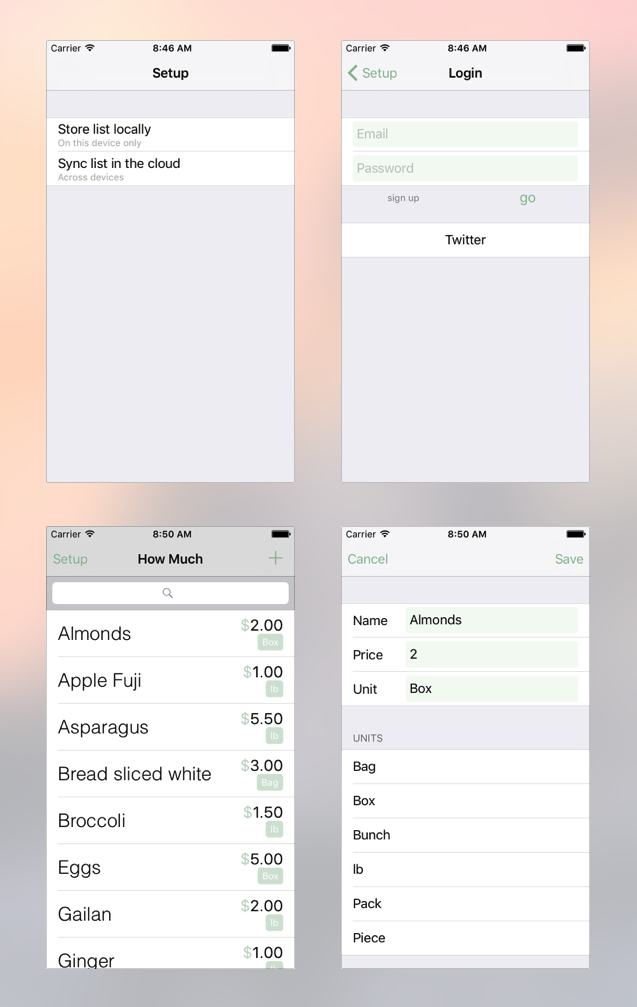
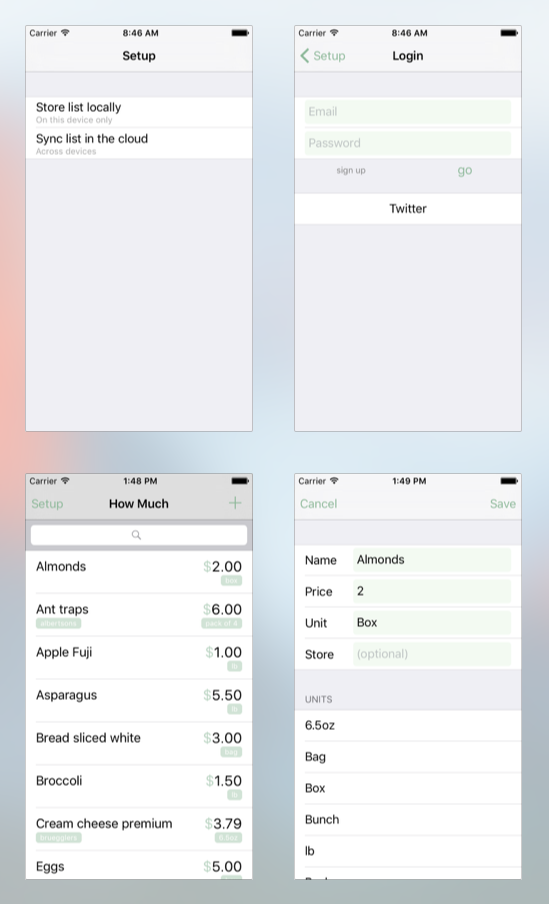
Add store field

diff --git a/Xcode/HowMuch/Views/ItemCell.m b/Xcode/HowMuch/Views/ItemCell.m
@@ -8,6 +8,12 @@
 
 #import "ItemCell.h"
 
+@interface ItemCell ()
+
+@property (nonatomic, strong) UIView *container;
+
+@end
+
 @implementation ItemCell
 
 static BOOL kLogItemCell = NO;
@@ -18,31 +24,35 @@ static BOOL kLogItemCell = NO;
         return nil;
     
     // Init
+    self.container = [[UIView alloc] init];
+    
     self.nameLabel = [[UILabel alloc] init];
+    self.storeLabel = [[UILabel alloc] init];
     self.priceLabel = [[UILabel alloc] init];
     self.unitLabel = [[UILabel alloc] init];
     
     NSArray *controls = @[
                           self.nameLabel,
+                          self.storeLabel,
                           self.priceLabel,
                           self.unitLabel,
                           ];
     
-    // Subviews
-    [controls enumerateObjectsUsingBlock:^(id  _Nonnull obj, NSUInteger idx, BOOL * _Nonnull stop) {
-        [self.contentView addSubview:obj];
-    }];
-    
     // Setup
+    self.nameLabel.accessibilityIdentifier = @"name";
+    self.nameLabel.font = [UIFont systemFontOfSize:18];
+    
     self.unitLabel.accessibilityIdentifier = @"unit";
-    self.unitLabel.font = [UIFont systemFontOfSize:12];
+    self.unitLabel.font = [UIFont systemFontOfSize:10];
     self.unitLabel.textAlignment = NSTextAlignmentCenter;
     self.unitLabel.layer.cornerRadius = 4;
-    self.unitLabel.textColor = [UIColor whiteColor];
     self.unitLabel.clipsToBounds = YES;
     
-    self.nameLabel.accessibilityIdentifier = @"name";
-    self.nameLabel.font = [UIFont fontWithName:@"Helvetica-Light" size:24];
+    self.storeLabel.accessibilityIdentifier = @"store";
+    self.storeLabel.font = self.unitLabel.font;
+    self.storeLabel.textAlignment = self.unitLabel.textAlignment;
+    self.storeLabel.layer.cornerRadius = 4;
+    self.storeLabel.clipsToBounds = YES;
     
     self.priceLabel.accessibilityIdentifier = @"price";
     self.priceLabel.textAlignment = NSTextAlignmentRight;
@@ -54,47 +64,72 @@ static BOOL kLogItemCell = NO;
     }
     
     // Layout
-    [controls enumerateObjectsUsingBlock:^(UIView * obj, NSUInteger idx, BOOL * _Nonnull stop) {
-        obj.translatesAutoresizingMaskIntoConstraints = NO;
+    [self.contentView addSubview:self.container];
+    [controls enumerateObjectsUsingBlock:^(id  _Nonnull obj, NSUInteger idx, BOOL * _Nonnull stop) {
+        [self.container addSubview:obj];
     }];
+    
+    [[controls.mutableCopy arrayByAddingObject:self.container]
+     enumerateObjectsUsingBlock:^(UIView * obj, NSUInteger idx, BOOL * _Nonnull stop) {
+         obj.translatesAutoresizingMaskIntoConstraints = NO;
+     }];
     NSDictionary *views = @{
+                            @"container":self.container,
+                            
                             @"name":self.nameLabel,
+                            @"store":self.storeLabel,
                             @"price":self.priceLabel,
                             @"unit":self.unitLabel,
                             };
     NSDictionary *metrics = @{
-                              @"pad":@(kCellPadVertical),
+                              @"pad":@2,
                               };
     
-    // Horizontal
+    // Container
     {
-        NSArray *constraints = [NSLayoutConstraint constraintsWithVisualFormat:@"|-[name][price(80)]-|" options:kNilOptions metrics:metrics views:views];
+        NSArray *constraints = [NSLayoutConstraint constraintsWithVisualFormat:@"|-[container]-|" options:kNilOptions metrics:metrics views:views];
         [self.contentView addConstraints:constraints];
     }
     {
-        NSArray *constraints = [NSLayoutConstraint constraintsWithVisualFormat:@"[unit]-|" options:kNilOptions metrics:metrics views:views];
+        NSArray *constraints = [NSLayoutConstraint constraintsWithVisualFormat:@"V:|-[container]-|" options:kNilOptions metrics:metrics views:views];
         [self.contentView addConstraints:constraints];
+    }
+    
+    // Horizontal
+    {
+        NSArray *constraints = [NSLayoutConstraint constraintsWithVisualFormat:@"|[name][price(80)]|" options:kNilOptions metrics:metrics views:views];
+        [self.container addConstraints:constraints];
+    }
+    {
+        NSArray *constraints = [NSLayoutConstraint constraintsWithVisualFormat:@"|[store]" options:kNilOptions metrics:metrics views:views];
+        [self.container addConstraints:constraints];
+    }
+    {
+        NSArray *constraints = [NSLayoutConstraint constraintsWithVisualFormat:@"[unit]|" options:kNilOptions metrics:metrics views:views];
+        [self.container addConstraints:constraints];
     }
     
     // Vertical
     {
-        NSArray *constraints = [NSLayoutConstraint constraintsWithVisualFormat:@"V:|[name]|" options:kNilOptions metrics:metrics views:views];
-        [self.contentView addConstraints:constraints];
+        NSArray *constraints = [NSLayoutConstraint constraintsWithVisualFormat:@"V:|[name]-2-[store(15)]|" options:kNilOptions metrics:metrics views:views];
+        [self.container addConstraints:constraints];
     }
     {
-        NSArray *constraints = [NSLayoutConstraint constraintsWithVisualFormat:@"V:[price][unit(price)]-pad-|" options:kNilOptions metrics:metrics views:views];
-        [self.contentView addConstraints:constraints];
+        NSArray *constraints = [NSLayoutConstraint constraintsWithVisualFormat:@"V:[price][unit(15)]|" options:kNilOptions metrics:metrics views:views];
+        [self.container addConstraints:constraints];
     }
     
     // Constraint properties
-    self.priceTopConstraint = [NSLayoutConstraint constraintWithItem:self.priceLabel attribute:NSLayoutAttributeTop relatedBy:NSLayoutRelationEqual toItem:self.contentView attribute:NSLayoutAttributeTop multiplier:1 constant:kCellPadVertical];
-    [self.contentView addConstraint:self.priceTopConstraint];
+//    self.priceTopConstraint = [NSLayoutConstraint constraintWithItem:self.priceLabel attribute:NSLayoutAttributeTop relatedBy:NSLayoutRelationEqual toItem:self.contentView attribute:NSLayoutAttributeTop multiplier:1 constant:kCellPadVertical];
+//    [self.contentView addConstraint:self.priceTopConstraint];
     
     self.unitWidthConstraint = [NSLayoutConstraint constraintWithItem:self.unitLabel attribute:NSLayoutAttributeWidth relatedBy:NSLayoutRelationEqual toItem:nil attribute:NSLayoutAttributeNotAnAttribute multiplier:1 constant:0];
     [self.contentView addConstraint:self.unitWidthConstraint];
     
+    self.storeWidthConstraint = [NSLayoutConstraint constraintWithItem:self.storeLabel attribute:NSLayoutAttributeWidth relatedBy:NSLayoutRelationEqual toItem:nil attribute:NSLayoutAttributeNotAnAttribute multiplier:1 constant:0];
+    [self.contentView addConstraint:self.storeWidthConstraint];
+    
     return self;
 }
-
 
 @end

diff --git a/Xcode/HowMuch/Controllers/InputController.m b/Xcode/HowMuch/Controllers/InputController.m
@@ -27,6 +27,7 @@ NS_ENUM(NSInteger, HM_InputRowType) {
     HM_InputRowTypeName,
     HM_InputRowTypePrice,
     HM_InputRowTypeUnit,
+    HM_InputRowTypeStore,
     HM_InputRowTypeCount,
 };
 
@@ -162,13 +163,14 @@ NS_ENUM(NSInteger, HM_InputRowType) {
     }
     
     cell.textField.tag = indexPath.row;
-    cell.textField.placeholder = indexPath.row == HM_InputRowTypeUnit ? @"(optional)":nil;
+    cell.textField.placeholder = indexPath.row == HM_InputRowTypeUnit || indexPath.row == HM_InputRowTypeStore ? @"(optional)":nil;
     cell.textField.keyboardType = indexPath.row == HM_InputRowTypePrice ? UIKeyboardTypeDecimalPad : UIKeyboardTypeAlphabet;
     
     cell.label.text = ({
         NSArray *labels = @[@"Name",
                             @"Price",
                             @"Unit",
+                            @"Store",
                             ];
         labels[indexPath.row];
     });
@@ -178,6 +180,7 @@ NS_ENUM(NSInteger, HM_InputRowType) {
                           self.item.name,
                           self.item.price.stringValue,
                           self.item.unit?:@"",
+                          self.item.store?:@"",
                           ];
         
         cell.textField.text = item[indexPath.row];
@@ -226,6 +229,9 @@ NS_ENUM(NSInteger, HM_InputRowType) {
     if (self.item) {
         if (textField.tag == HM_InputRowTypeName)
             self.item.name = combined;
+
+        if (textField.tag == HM_InputRowTypeStore)
+            self.item.store = combined;
         
         if (textField.tag == HM_InputRowTypePrice)
             self.item.price = @(combined.floatValue);
@@ -243,6 +249,9 @@ NS_ENUM(NSInteger, HM_InputRowType) {
         if (textField.tag == HM_InputRowTypeName)
             self.addItem.name = combined;
         
+        if (textField.tag == HM_InputRowTypeStore)
+            self.addItem.store = combined;
+
         if (textField.tag == HM_InputRowTypePrice)
             self.addItem.price = @(combined.floatValue);
         

diff --git a/Xcode/HowMuch/Storage/DataStorageParse.m b/Xcode/HowMuch/Storage/DataStorageParse.m
@@ -65,9 +65,10 @@ static BOOL logging = NO;
             Item *item = [[Item alloc] init];
             
             item.itemId = object.objectId;
-            item.name = object[@"name"];
-            item.unit = object[@"unit"];
-            item.price = object[@"price"];
+            item.name = object[hm_key_Name];
+            item.price = object[hm_key_Price];
+            item.store = object[hm_key_Store];
+            item.unit = object[hm_key_Unit];
             
             [list addObject:item];
         }
@@ -87,16 +88,17 @@ static BOOL logging = NO;
 {
     PFObject *parseItem = [PFObject objectWithClassName:itemClassName];
     
-    parseItem[@"name"] = item.name;
-    parseItem[@"price"] = item.price;
-    parseItem[@"unit"] = item.unit;
+    parseItem[hm_key_Name] = item.name;
+    parseItem[hm_key_Store] = item.store;
+    parseItem[hm_key_Price] = item.price;
+    parseItem[hm_key_Unit] = item.unit;
     
     parseItem[@"userId"] = [PFUser currentUser].objectId;
     
     [parseItem saveInBackgroundWithBlock:^(BOOL succeeded, NSError * _Nullable error) {
         dispatch_async(dispatch_get_main_queue(), ^{
             successBlock(succeeded?nil:error);
-        });        
+        });
     }];
 }
 
@@ -108,9 +110,10 @@ static BOOL logging = NO;
             successBlock(error);
         }
         else {
-            parseItem[@"name"] = item.name;
-            parseItem[@"price"] = item.price;
-            parseItem[@"unit"] = item.unit;
+            parseItem[hm_key_Name] = item.name;
+            parseItem[hm_key_Price] = item.price;
+            parseItem[hm_key_Store] = item.store;
+            parseItem[hm_key_Unit] = item.unit;
             
             [parseItem saveInBackgroundWithBlock:^(BOOL succeeded, NSError * _Nullable error) {
                 successBlock(succeeded?nil:error);

diff --git a/Xcode/HowMuch/Models/Item.m b/Xcode/HowMuch/Models/Item.m
@@ -20,6 +20,7 @@
     self.name = @"";
     self.price = @0;
     self.unit = @"";
+    self.store = @"";
     
     return self;
 }
@@ -27,7 +28,7 @@
 #pragma mark - Override
 
 - (NSString *)description {    
-    return [NSString stringWithFormat:@"<%@: %p> %@: %@ with price %@ and unit %@", self.class, self, self.itemId, self.name, self.price, self.unit];
+    return [NSString stringWithFormat:@"<%@: %p> %@: %@ with price %@, unit %@, store %@", self.class, self, self.itemId, self.name, self.price, self.unit, self.store];
 }
 
 - (BOOL)isEqual:(Item *)object {
@@ -40,15 +41,11 @@
 
 #pragma mark NSCoding
 
-static NSString * const hm_key_Id = @"id";
-static NSString * const hm_key_Name = @"name";
-static NSString * const hm_key_Price = @"price";
-static NSString * const hm_key_Unit = @"unit";
-
 - (void)encodeWithCoder:(NSCoder *)aCoder {
     [aCoder encodeObject:self.itemId forKey:hm_key_Id];
     [aCoder encodeObject:self.name forKey:hm_key_Name];
     [aCoder encodeObject:self.price forKey:hm_key_Price];
+    [aCoder encodeObject:self.store forKey:hm_key_Store];
     [aCoder encodeObject:self.unit forKey:hm_key_Unit];
 }
 
@@ -61,6 +58,7 @@ static NSString * const hm_key_Unit = @"unit";
     self.itemId = [aDecoder decodeObjectForKey:hm_key_Id];
     self.name = [aDecoder decodeObjectForKey:hm_key_Name];
     self.price = [aDecoder decodeObjectForKey:hm_key_Price];
+    self.store = [aDecoder decodeObjectForKey:hm_key_Store];
     self.unit = [aDecoder decodeObjectForKey:hm_key_Unit];
     
     return self;
@@ -75,6 +73,7 @@ static NSString * const hm_key_Unit = @"unit";
     item.itemId = self.itemId;
     item.name = self.name;
     item.price = self.price;
+    item.store = self.store;
     item.unit = self.unit;    
     
     return item;

diff --git a/Xcode/HowMuch/Models/ItemCellData.m b/Xcode/HowMuch/Models/ItemCellData.m
@@ -20,10 +20,15 @@
 {
     // style
     cell.unitLabel.backgroundColor = [color colorWithAlphaComponent:.4];
+    cell.storeLabel.backgroundColor = cell.unitLabel.backgroundColor;
+    
+    cell.unitLabel.textColor = [UIColor whiteColor];
+    cell.storeLabel.textColor = cell.unitLabel.textColor;
     
     // values
     cell.nameLabel.text = item.name;
-    cell.unitLabel.text = item.unit;
+    cell.storeLabel.text = item.store.lowercaseString;
+    cell.unitLabel.text = item.unit.lowercaseString;    
     cell.priceLabel.attributedText = ({
         NSNumber *price = item.price;
         NSString *combined = [NSString stringWithFormat:@"%@%.2f", currency, price.floatValue];
@@ -36,13 +41,19 @@
     });
     
     // constraints
-    cell.priceTopConstraint.constant = item.unit.length>0?kCellPadVertical:20;
-    cell.unitWidthConstraint.constant = ({
-        NSDictionary *attributes = @{NSFontAttributeName:cell.unitLabel.font};
-        CGSize size = [item.unit sizeWithAttributes:attributes];
-        CGFloat pad = 6;
-        item.unit.length==0?0:size.width + pad * 2;
-    });
+//    cell.priceTopConstraint.constant = item.unit.length>0?kCellPadVertical:20;
+    cell.unitWidthConstraint.constant = [self widthForString:item.unit font:cell.unitLabel.font];
+    cell.storeWidthConstraint.constant = [self widthForString:item.store font:cell.storeLabel.font];
+}
+
+#pragma mark Private
+
++ (CGFloat)widthForString:(NSString *)string font:(UIFont *)font {
+    NSDictionary *attributes = @{NSFontAttributeName:font};
+    CGSize size = [string sizeWithAttributes:attributes];
+    CGFloat pad = 6;
+
+    return string.length==0?0:size.width + pad * 2;
 }
 
 @end

diff --git a/Xcode/HowMuch/Views/ItemCell.h b/Xcode/HowMuch/Views/ItemCell.h
@@ -8,7 +8,7 @@
 
 #import <UIKit/UIKit.h>
 
-static CGFloat kCellPadVertical = 8;
+//static CGFloat kCellPadVertical = 8;
 
 @interface ItemCell : UITableViewCell
 
@@ -16,14 +16,18 @@ static CGFloat kCellPadVertical = 8;
 
 @property (strong, nonatomic) UILabel *nameLabel;
 
+@property (strong, nonatomic) UILabel *storeLabel;
+
 @property (strong, nonatomic) UILabel *priceLabel;
 
 @property (strong, nonatomic) UILabel *unitLabel;
 
 // Constraints
 
-@property (strong, nonatomic) NSLayoutConstraint *priceTopConstraint;
+//@property (strong, nonatomic) NSLayoutConstraint *priceTopConstraint;
 
 @property (strong, nonatomic) NSLayoutConstraint *unitWidthConstraint;
+
+@property (strong, nonatomic) NSLayoutConstraint *storeWidthConstraint;
 
 @end

diff --git a/Xcode/HowMuch/Models/Item.h b/Xcode/HowMuch/Models/Item.h
@@ -8,6 +8,12 @@
 
 #import <Foundation/Foundation.h>
 
+static NSString * const hm_key_Id = @"id";
+static NSString * const hm_key_Name = @"name";
+static NSString * const hm_key_Price = @"price";
+static NSString * const hm_key_Store = @"store";
+static NSString * const hm_key_Unit = @"unit";
+
 @interface Item : NSObject <NSCoding, NSCopying>
 
 @property (nonatomic, strong) NSString *itemId;
@@ -15,6 +21,8 @@
 @property (nonatomic, strong) NSString *name;
 
 @property (nonatomic, strong) NSNumber *price;
+
+@property (nonatomic, strong) NSString *store;
 
 @property (nonatomic, strong) NSString *unit;
 
